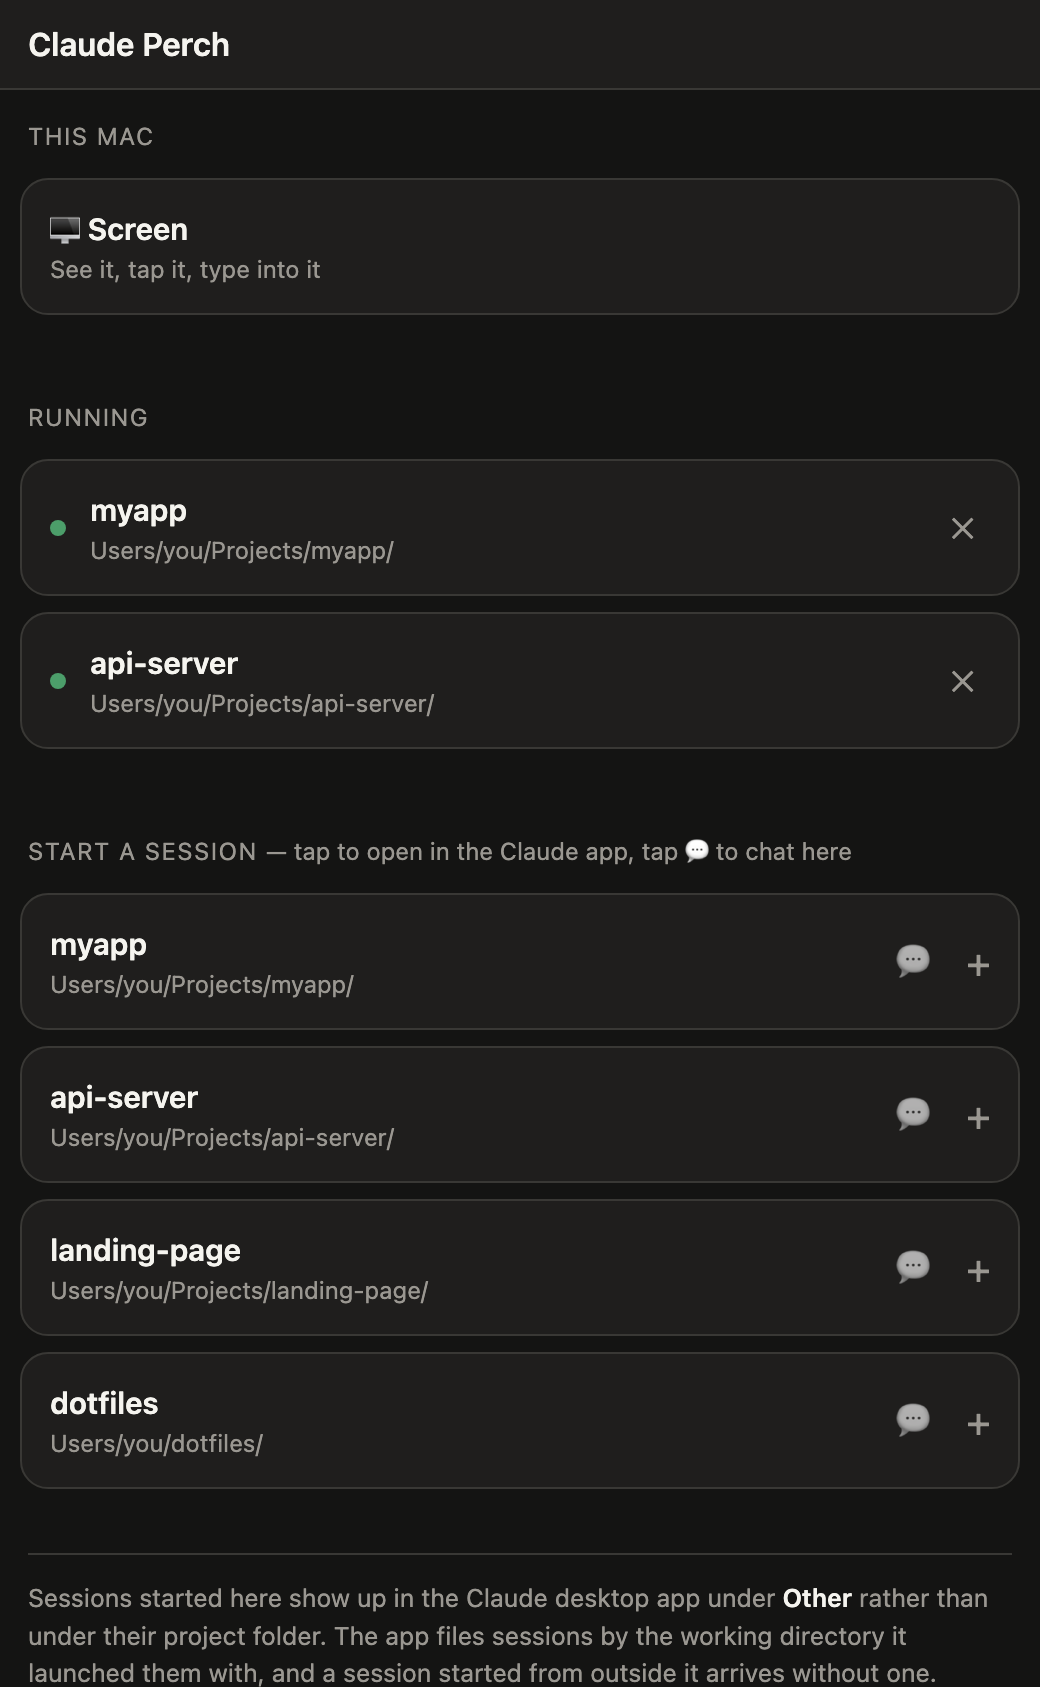
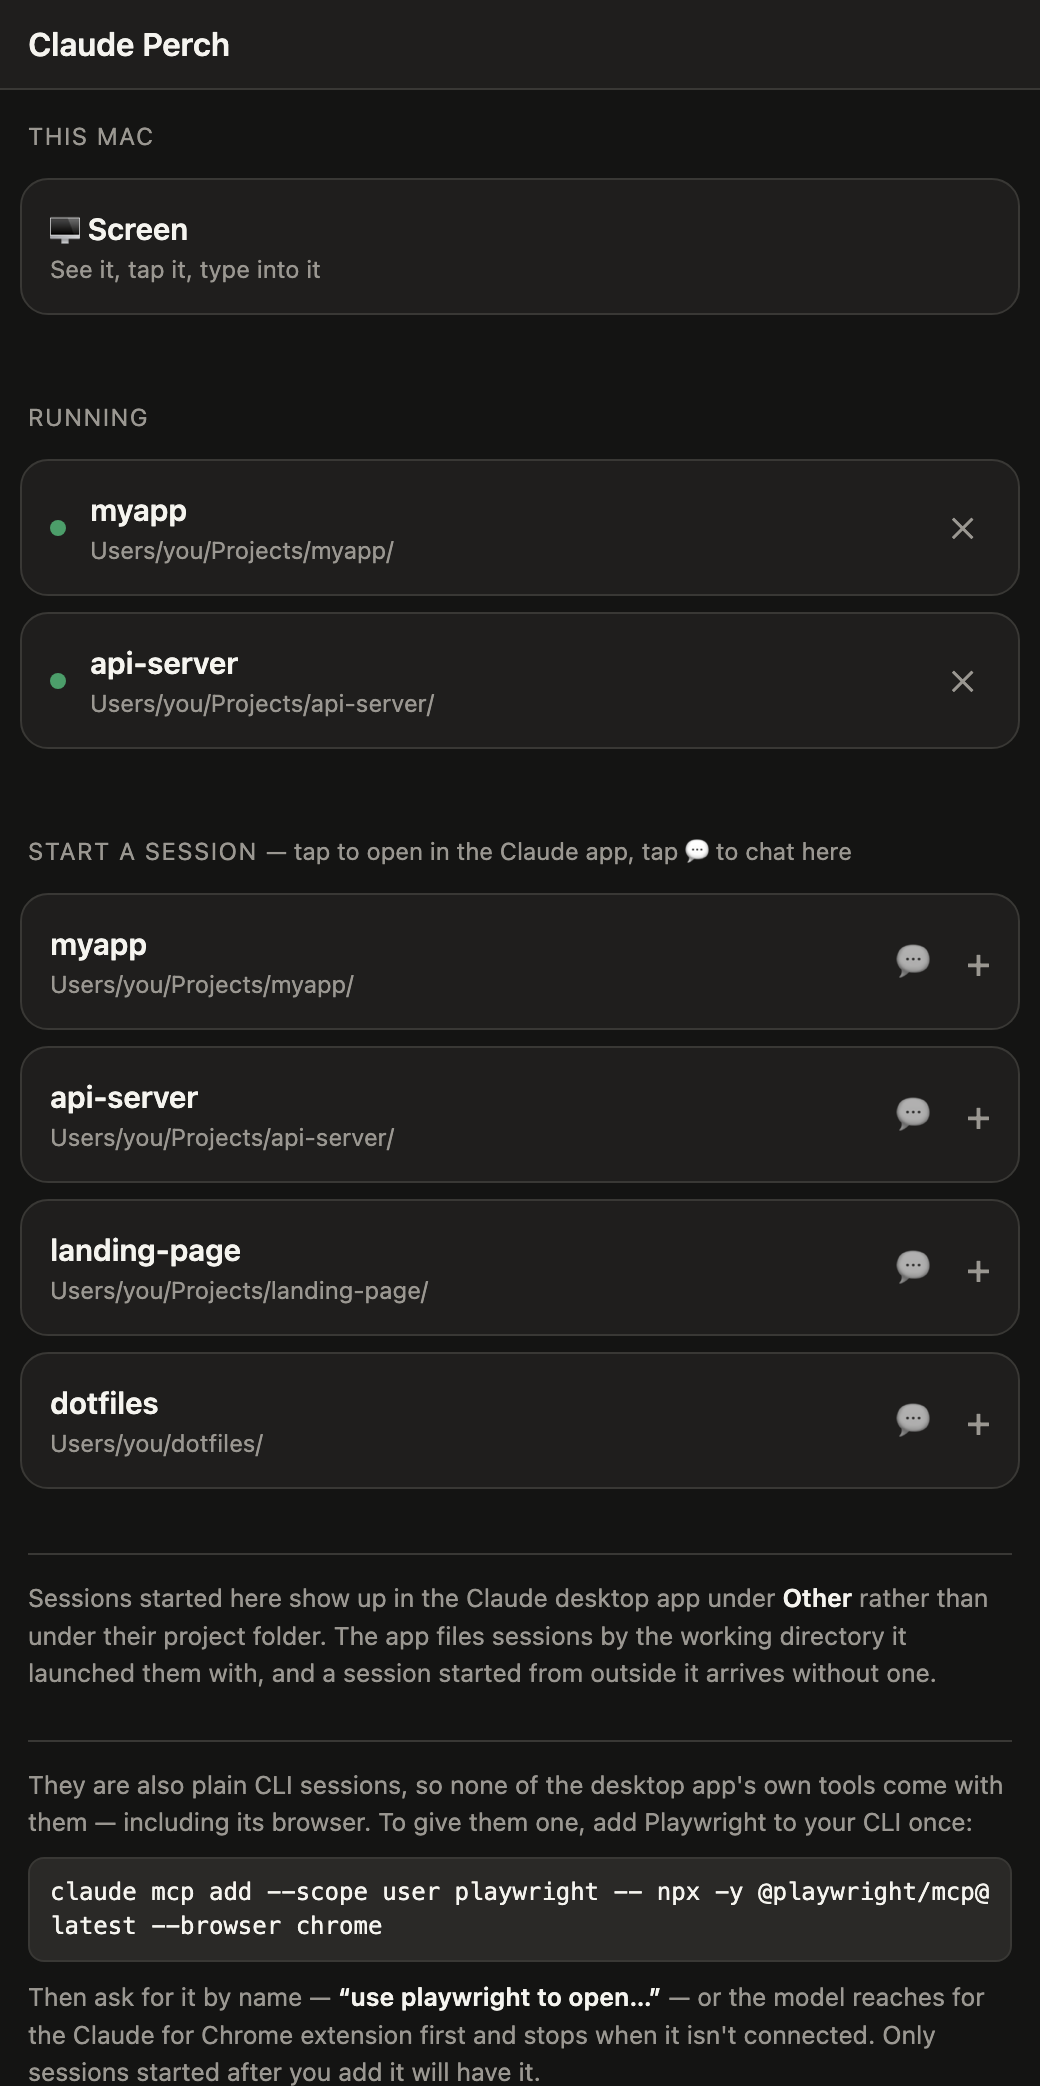
Say on the page itself how to give these sessions a browser
The README explains it, but the person who needs it is holding a phone,
looking at the list of projects, wondering why the session they just started
can't open a page. Put the one-line fix where that question gets asked, with
the command in a tap-to-select block.

diff --git a/public/index.html b/public/index.html
@@ -61,6 +61,10 @@
   .note{color:var(--dim);font-size:12.5px;line-height:1.5;margin:4px 14px 24px;
     padding-top:12px;border-top:1px solid var(--line)}
   .note b{color:var(--fg);font-weight:600}
+  .note code{display:block;margin:8px 0;padding:8px 10px;background:var(--panel2);
+    border:1px solid var(--line);border-radius:8px;color:var(--fg);
+    font:12px/1.45 ui-monospace,SFMono-Regular,Menlo,monospace;
+    word-break:break-all;-webkit-user-select:all;user-select:all}
   .tag{font-size:11px;color:var(--dim);border:1px solid var(--line);
     border-radius:6px;padding:2px 6px;flex:0 0 auto}
   .kill{color:var(--dim);font-size:15px;padding:4px 8px;flex:0 0 auto}
@@ -142,6 +146,13 @@
         <b>Other</b> rather than under their project folder. The app files sessions by
         the working directory it launched them with, and a session started from
         outside it arrives without one.</p>
+      <p class="note">They are also plain CLI sessions, so none of the desktop app's
+        own tools come with them &mdash; including its browser. To give them one, add
+        Playwright to your CLI once:
+        <code>claude mcp add --scope user playwright -- npx -y @playwright/mcp@latest --browser chrome</code>
+        Then ask for it by name &mdash; <b>&ldquo;use playwright to open&hellip;&rdquo;</b> &mdash; or the
+        model reaches for the Claude for Chrome extension first and stops when it
+        isn't connected. Only sessions started after you add it will have it.</p>
     </div>
     <div id="chat" class="hide"><div id="msgs"></div></div>
     <div id="screen" class="hide"><img id="scr" alt=""><div id="scrmsg">Connecting&hellip;</div>
